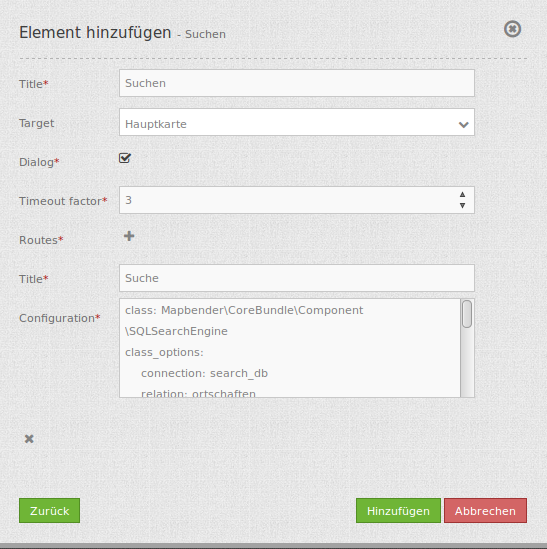
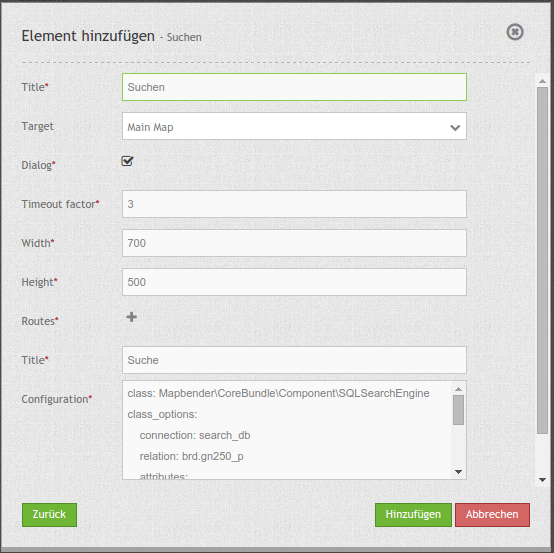
search router resizable

diff --git a/en/bundles/Mapbender/CoreBundle/elements/search_router.rst b/en/bundles/Mapbender/CoreBundle/elements/search_router.rst
@@ -18,20 +18,19 @@ Configuration
 
 The SearchRouter needs access to the database where the search tables are. You have to define a new database configuration to be able to connect with the geo database. Read more about this at http://doc.mapbender3.org/en/book/database.html
 
-For the use of the below-described search the digitizer database can be used. The configuration for creating the database connection can be found at :doc:`digitizer`.
+Note: For the use of the below-described search the digitizer database can be used. The configuration for creating the database connection can be found at :doc:`digitizer`.
 
 * **Title:** Title of the element. The title will be listed in "Layouts" and allows to distinguish between different buttons. It will be indicated if "Show label" is activated.
-* **Tooltip:** text to use as tooltip.
 * **Target:** Id of Map element to query.
-* **Dialog:** render inside a dialog or not.
-* **Timeout factor:** timeout factor (multiplied with autcomplete delay) to prevent autocomplete right after a search has been started.
-* **Routes:** ollection of search routes.
+* **Dialog:** Render inside a dialog or not.
+* **Timeout factor:** Timeout factor (multiplied with autcomplete delay) to prevent autocomplete right after a search has been started.
+* **Width:**  Width of the dialog (only for dialog, not sidepane)
+* **Height:**  Height of the dialog (only for dialog, not sidepane)
+* **Routes:** Collection of search routes.
 
-You can define Searches (Routes) with the ``+`` Button. Each Search has a titel which will show up in the search form in a selectbox where you can choose the search you want to use.
+You can define Searches (Routes) with the ``+`` Button. Each Search has a ``title`` which will show up in the search form in a selectbox where you can choose the search you want to use. The definition of the search is done in YAML syntax in the textarea configuration. Here you define the database connection, the Search tables/views, the design of the form and of the result table.
 
-The definition of the search is done in YAML syntax in the textarea configuration. Here you define the database connection, the Search tables/views, the design of the form and of the result table.
-
-Element definition in web interface in the configuration area:
+Example of a route-configuration in the ``configuration`` area:
 
 .. code-block:: yaml
 
@@ -64,9 +63,9 @@ Element definition in web interface in the configuration area:
 
 
 YAML-Definition
-----
+---------------
 
-for mapbender.yml:
+For mapbender.yml:
 
 .. code-block:: yaml
 

diff --git a/de/bundles/Mapbender/CoreBundle/elements/search_router.rst b/de/bundles/Mapbender/CoreBundle/elements/search_router.rst
@@ -16,21 +16,21 @@ Konfiguration
 
 Die Suche greift auf Tabellen in einer Datenbank zu. Dafür muss die Datenbank in Mapbender bekannt gegeben werden. Informationen dazu finden sich unter http://doc.mapbender3.org/de/book/database.html
 
-Für die Nutzung der unten beschriebenen Suche kann die Datenbank der Digitalisierung genutzt werden. Die Kofigurationen für die Erstellung der Datenbankverbindung finden sich unter :doc:`digitizer`
-
+Hinweis: Für die Nutzung der unten beschriebenen Suche kann die Datenbank der Digitalisierung genutzt werden. Die Kofigurationen für die Erstellung der Datenbankverbindung finden sich unter :doc:`digitizer`
 
 * **Title:** Titel des Elements. Dieser wird in der Layouts Liste angezeigt und ermöglicht, mehrere Button-Elemente voneinander zu unterscheiden. Der Titel wird außerdem neben dem Button angezeigt, wenn “Beschriftung anzeigen” aktiviert ist.
-* **Tooltip:** Text, der angezeigt wird, wenn der Mauszeiger eine längere Zeit über dem Element verweilt.
 * **Target:** ID des Kartenelements, auf das sich das Element bezieht.
 * **Dialog:** Erebniswiedergabe in einem Dialogfeld.
 * **Timeout factor:** Timeout-Faktor (multipliziert mit autcomplete Verzögerung) um die Autovervollständigung zu verhindern, nachdem eine Suche gestartet wurde.
+* **Width:** Breite des Dialogs (nur für Dialog, nicht Sidepane)
+* **Height:** Höhe des Dialogs
 * **Routes:** Sammlung von Suchrouten.
 
-Es können über den Button ``+`` mehrere Suchen (routes) erstellt werden. Jede Suche erhält im Feld ``titel`` einen Titel, über den die Suche nachher in einer Auswahlbox selektierbar ist.
+Es können über den Button ``+`` mehrere Suchen (routes) erstellt werden. Jede Suche erhält im Feld ``title`` einen Titel, über den die Suche nachher in einer Auswahlbox selektierbar ist.
 Die Definition der Suche erfolgt im yaml-Syntax in einem Textfeld. Hier wird die Suchtabelle/Abfrage, die Datenverbindung, der Formularaufbau und die Trefferausgabe definiert. 
 
 
-Element Definition im Web Administrationstool im Textfeld configuration:
+Beispiel einer Route-Konfiguration im Textfeld ``Configuration``:
 
 .. code-block:: yaml
 
@@ -63,9 +63,9 @@ Element Definition im Web Administrationstool im Textfeld configuration:
 
 
 YAML-Definition 
-----
+----------------
 
-in der mapbender.yml Datei:
+In der mapbender.yml Datei:
 
 .. code-block:: yaml
 
